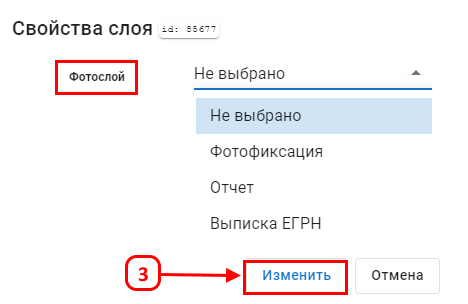
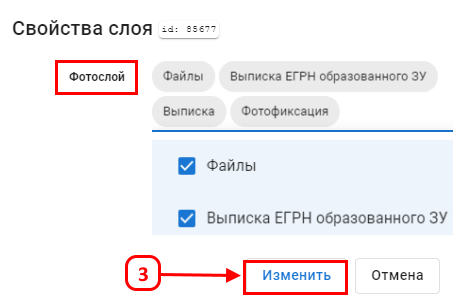
Объединенный запрос на вытягивание 283: Help (Sprint 113)
Связанные рабочие элементы: #1384

diff --git a/portal-ui/src/assets/help/map/2projectManagement/11photoLayer/11photoLayer.html b/portal-ui/src/assets/help/map/2projectManagement/11photoLayer/11photoLayer.html
@@ -1,7 +1,10 @@
-<p><b>Фотослой</b> предназначен для просмотра результатов фотофиксации при проколе или выделении, одного или множества объектов..</p>
-<p>Для активации функции «Фотослой», перейдите в свойства слоя (2).</p>
+<p><b>Фоторежим</b> предназначен для просмотра результатов фотофиксации при проколе или выделении, одного или множества объектов.</p>
+<p>Для активации фоторежима необходимо выполнить следующие шаги:</p>
 <center><img src="11photoLayer_1.png" alt="" /></center>
-<p>Настройте свойства слоя и в последнем пункте «Фотослой» выберите поле, в котором содержатся данные о фотофиксации, нажмите «Изменить» (3).</p>
-<center><img src="11photoLayer_2.png" alt="" /></center>
-<p>При проколе объектов на карте отображаются сначала объекты фотофиксации.</p>
-<center><img src="11photoLayer_3.png" alt="" /></center>
+<ol>
+  <li>Перейти в свойства слоя.</li>
+  <li>Выбрать опцию "Фотослой".</li>
+  <li>Настроить и выбрать соответствующие поля с прикрепленными файлами.</li>
+  <li>Нажать на кнопку "Изменить".</li>
+</ol>
+<p>После выполненных действий при проколе объектов на карте, сначала будут отображаться результаты фотофиксации.</p>

diff --git a/portal-ui/src/assets/help/10photoUploader/10photoUploader.html b/portal-ui/src/assets/help/10photoUploader/10photoUploader.html
@@ -1,0 +1,7 @@
+<p>Функция <b>«Загрузка фотографий»</b> позволяет загрузить данные фотофиксации сразу в слой.</p>
+<p>Для загрузки фотографий перейдите по ссылке https://gisogd.rk.gov.ru/photo.</p>
+<p>Выберите слой (1), для которого необходимо загрузить данные.</p>
+<center><img src="10photoUploader_1.png" alt="" /></center>
+<p>Нажмите на кнопку "Выбрать файл" для выбора фотографий.</p>
+<p>После выбора слоя и фотографий доступна кнопка "Загрузить" для передачи выбранных фотографий в слой.</p>
+<p>Дождитесь завершения загрузки и проверьте, что фотографии были успешно импортированы в выбранный слой на карту.</p>

diff --git a/portal-ui/src/assets/help/map/mapTools/fullProjectText/fullProjectText.html b/portal-ui/src/assets/help/map/mapTools/fullProjectText/fullProjectText.html
@@ -1,0 +1,6 @@
+<p><b>Полнотекстовый поиск</b> в проекте.</p>
+<p>Для поиска атрибутивных данных в проекте введите ключевое слово в строку поиска (1).</p>
+<center><img src="fullProjectText_1.png" alt="" /></center>
+<p>Результаты поиска будут отображены в правой части экрана.</p>
+<center><img src="fullProjectText_2.png" alt="" /></center>
+<p>Найденные совпадения подсвечены желтым, при этом в дополнительных сведениях (2) приведены название поля и соответствующие данные.</p>
